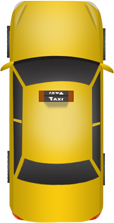
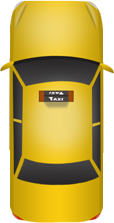
Added tire texture

diff --git a/gtg/Vehicle/src/main/java/dk/sdu/mmmi/swe/gtg/vehicle/internal/VehiclePlugin.java b/gtg/Vehicle/src/main/java/dk/sdu/mmmi/swe/gtg/vehicle/internal/VehiclePlugin.java
@@ -30,7 +30,7 @@ public class VehiclePlugin implements IGamePluginService {
     private IWorldManager worldManager;
 
     private final Vector2 WHEEL_SIZE = new Vector2(0.32f, 0.64f);
-    private final float WHEEL_OFFSET_X = 1.7f * 0.5f - WHEEL_SIZE.x * 0.45f;
+    private final float WHEEL_OFFSET_X = 1.7f * 0.5f - WHEEL_SIZE.x * 0.40f;
     private final float WHEEL_OFFSET_Y = 4.0f * 0.3f;
 
     @Override
@@ -85,20 +85,30 @@ public class VehiclePlugin implements IGamePluginService {
         vehicleBody.getBody().getFixtureList().get(0).setRestitution(restitution);
 
         vehicle.addPart(vehicleBody);
-        vehicle.addPart(new TransformPart());
+        TransformPart transformPart = new TransformPart();
+        transformPart.getPosition().z = -1;
+        vehicle.addPart(transformPart);
 
         return vehicle;
     }
 
-    private TexturePart getBodyTexture() {
+    private TexturePart getTexture(String path) {
         final TexturePart texturePart = new TexturePart();
-        FileHandle file = Gdx.files.internal("assets/taxi.png");
+        FileHandle file = Gdx.files.internal(path);
         Texture texture = new Texture(file);
         TextureRegion textureRegion = new TextureRegion(texture);
 
         texturePart.setRegion(textureRegion);
 
         return texturePart;
+    }
+
+    private TexturePart getBodyTexture() {
+        return getTexture("assets/taxi.png");
+    }
+
+    private TexturePart getWheelTexture() {
+        return getTexture("assets/tire.png");
     }
 
     private Wheel[] createWheels(Vehicle vehicle) {
@@ -148,6 +158,12 @@ public class VehiclePlugin implements IGamePluginService {
                     60f,
                     true
             ));
+
+            TransformPart wheelTransform = new TransformPart();
+            wheelTransform.setScale(0.04f, 0.04f);
+
+            wheel.addPart(wheelTransform);
+            wheel.addPart(getWheelTexture());
 
             wheel.addPart(wheelBody);
 

diff --git a/gtg/Core/src/main/java/dk/sdu/mmmi/swe/gtg/core/internal/screens/GameScreen.java b/gtg/Core/src/main/java/dk/sdu/mmmi/swe/gtg/core/internal/screens/GameScreen.java
@@ -16,7 +16,7 @@ public class GameScreen extends ScreenAdapter implements Screen {
     private final Game game;
     private final GameData gameData;
 
-    private final float PPM = 20;
+    private final float PPM = 40;
 
     private OrthographicCamera cam;
     private Box2DDebugRenderer mB2dr;
